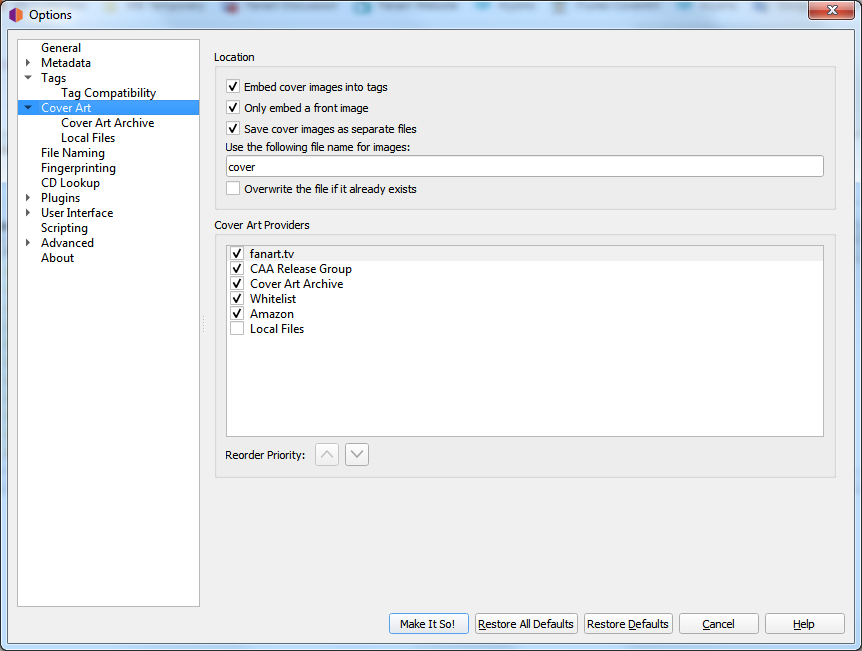
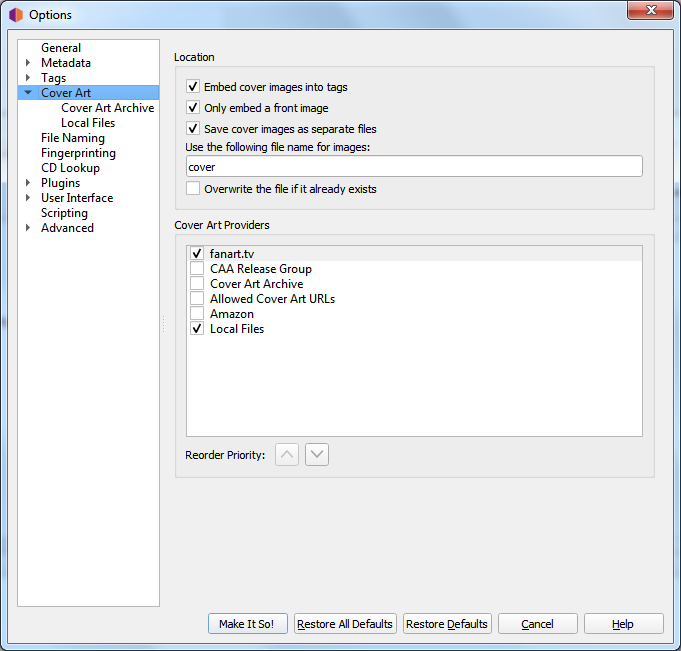
Update image and description for 'Allowed Cover Art URLs' option.

diff --git a/config/options_cover_art_providers.rst b/config/options_cover_art_providers.rst
@@ -26,15 +26,16 @@ are queried. Picard will try the providers from top to bottom until an image is 
    care more about visual quality then having an exact representation of your release. It is also a good
    fallback for the Cover Art Archive provider.
 
-**Allowed cover art URLs**
+**Allowed Cover Art URLs**
 
-   This will use images provided from approved third-party sites. See `Cover art whitelist
-   <https://wiki.musicbrainz.org/History:Style/Relationships/URLs/Cover_art_whitelist>`_ in the Style Guide
-   for more information.
+   This will use images provided from approved third-party sites. The image location is stored as a URL relationship
+   for the release within the MusicBrainz database, and only approved sites can be used for this relationship.
 
    .. note::
 
-      CD Baby and other whitelist sites are no longer being used by MusicBrainz for new Cover Art.
+      This relationship type is now deprecated in MusicBrainz, and is no longer used.    See `Cover art whitelist
+      <https://wiki.musicbrainz.org/History:Style/Relationships/URLs/Cover_art_whitelist>`_ in the Style Guide
+      for more information.
 
 **Local Files**
 
